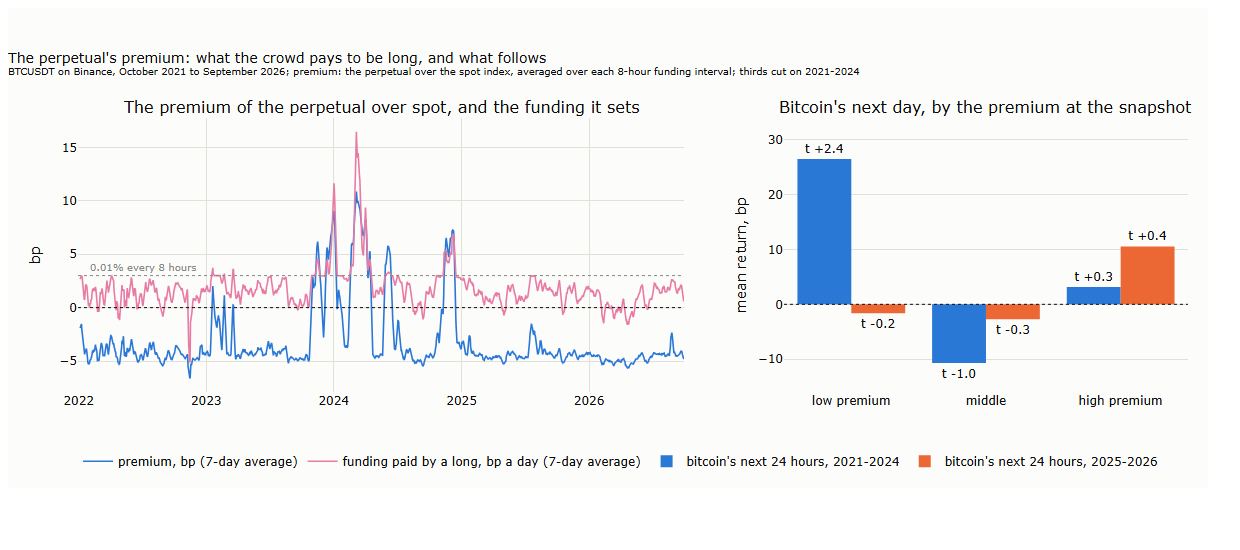
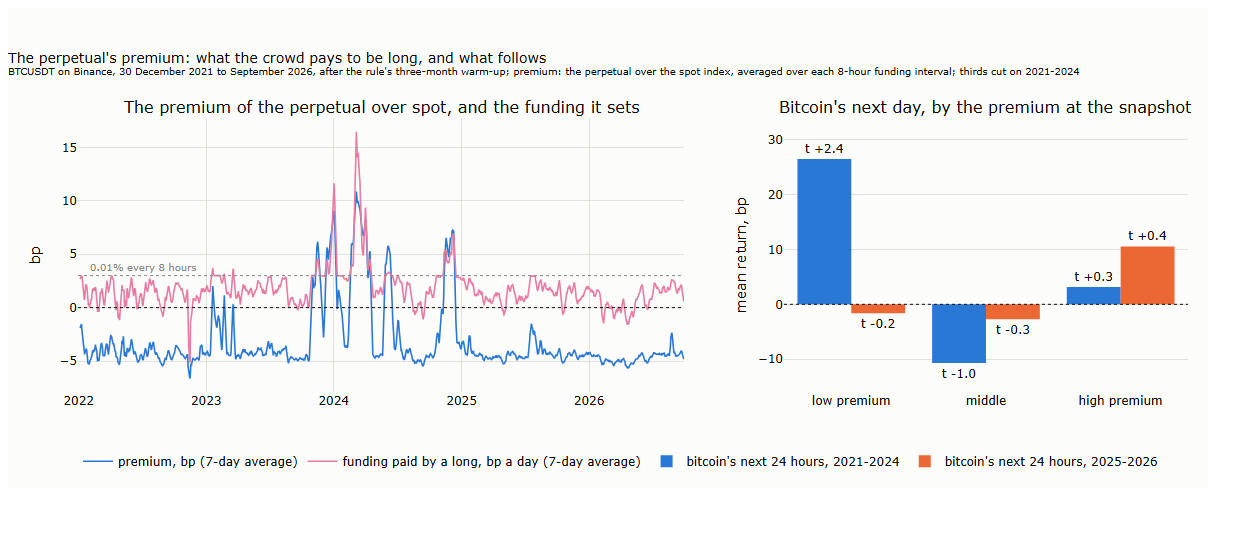
Lecture 16: captions with axes, text aligned with figures, two figures redrawn (#284)
- Axes line for 10 figures; full captions for 16_03 and 16_04 (none before).
- Text aligned with figures: night dollar bars "one an hour from midnight to
  03:00" (16_01); daily candles lose "about a quarter ... in 2021-2024 and more
  than half in 2025-2026" (16_04); costs of 16_03 are "trading costs, the fee and
  the spread"; "mostly a worse one" for B (16_05).
- 16_04 caption: separate run, hourly values up to 0.05 below 16_03.
- 16_08: log-axis ticks labelled 0.1 to 50; 16_09: subtitle gives the period
  plotted (30 December 2021 on, after the rule's warm-up). Same cached results.

Changed region(s): [[0.0919, 0.1236, 0.8887, 0.1545]]

diff --git a/lectures/16-trend-on-the-tape/scripts/l16_s6.py b/lectures/16-trend-on-the-tape/scripts/l16_s6.py
@@ -84,7 +84,7 @@ for k, (smp, col) in enumerate((("2021-2024", SERIES[0]), ("2025-2026", SERIES[1
                 marker=dict(color=col, line=dict(width=0)), text=[f"t {b[t]['btc_24h'][1]:+.1f}" for t in ("low", "middle", "high")], textposition="outside", row=1, col=2)
 fig.add_hline(y=0, line=dict(color=INK, dash="dot", width=1), row=1, col=2)
 fig.update_yaxes(title_text="bp", row=1, col=1); fig.update_yaxes(title_text="mean return, bp", range=[-16, 34], row=1, col=2)
-fig.update_layout(barmode="group", title="The perpetual's premium: what the crowd pays to be long, and what follows<br><sup>BTCUSDT on Binance, October 2021 to September 2026; "
+fig.update_layout(barmode="group", title="The perpetual's premium: what the crowd pays to be long, and what follows<br><sup>BTCUSDT on Binance, 30 December 2021 to September 2026, after the rule's three-month warm-up; "
                         "premium: the perpetual over the spot index, averaged over each 8-hour funding interval; thirds cut on 2021-2024</sup>",
                   height=480, width=1200, margin=dict(t=110, l=70), legend=dict(orientation="h", y=-0.2, x=0))
 save_figure(fig, PREFIX + "16_09_premium", FIG)

diff --git a/lectures/16-trend-on-the-tape/scripts/l16_s5.py b/lectures/16-trend-on-the-tape/scripts/l16_s5.py
@@ -42,7 +42,7 @@ for c, (smp, key) in enumerate((("2021-2024", "sharpe"), ("2025-2026", "sharpe")
     fig.add_shape(type="rect", xref=("x" if c == 1 else f"x{c}"), yref=("y domain" if c == 1 else f"y{c} domain"), x0=1.5, x1=4.5, y0=0, y1=1, fillcolor="rgba(27,175,122,0.12)",
                   line_width=0, layer="below")
     if key == "sharpe": fig.add_hline(y=0, line=dict(color=INK, dash="dot", width=1), row=1, col=c)
-fig.update_yaxes(type="log", title_text="% a year (log scale)", row=1, col=3)
+fig.update_yaxes(type="log", title_text="% a year (log scale)", tickvals=[0.1, 0.2, 0.5, 1, 2, 5, 10, 20, 50], ticktext=["0.1", "0.2", "0.5", "1", "2", "5", "10", "20", "50"], row=1, col=3)
 fig.update_layout(title="A patient entry saves most where the rule trades most: at the fast speeds<br><sup>The rule of §2 with plain sizing and funding; the patient "
                         "entry's saving of 1.96 bp per unit traded is Lecture 15's measurement; shaded: the plateau; right of each panel: the blend</sup>",
                   height=480, width=1200, margin=dict(t=110, l=60), legend=dict(orientation="h", y=-0.3, x=0))

diff --git a/lectures/16-trend-on-the-tape/lecture.md b/lectures/16-trend-on-the-tape/lecture.md
@@ -41,14 +41,14 @@ The decision clock stays on the calendar throughout. Funding is paid every eight
 **How the clocks communicate.** The clocks share one thing: time. Every trade on the tape carries an exchange timestamp to the millisecond, so every dollar bar carries one too, the moment its last trade happened. On one ordinary day, the two clocks look like this:
 
 ![Three clocks on one day: hourly closes and dollar-bar ends on 12 March 2024, and the age of the latest finished dollar bar at each hourly close](figures/16_01_three_clocks.png)
-<sub><b>How to read the figure.</b> <b>Black line:</b> the price, from one-minute closes. <b>Blue dashes along the top of each panel:</b> each marks the moment a dollar bar finished, when another fixed amount of dollars, about a 48th of a typical day's trading, had changed hands (the information clock). <b>Columns:</b> how many dollar bars finished in each hour; the dotted line is an average day's two an hour. <b>Orange lines (lower panels):</b> the hourly closes, at which the rule decides (the decision clock). <b>Shaded bands (lower panels):</b> from the last dollar bar finished before an hourly close to that close; the width written above each is how old the newest dollar-bar information is when the rule decides.</sub>
+<sub><b>How to read the figure.</b> <b>Axes.</b> Top: price (y) over the day, UTC (x). Middle: dollar bars finished in each hour (y). Bottom: price (y) over four hours (x), left the night, right the afternoon. <b>Black line:</b> the price, from one-minute closes. <b>Blue dashes along the top of each panel:</b> each marks the moment a dollar bar finished, when another fixed amount of dollars, about a 48th of a typical day's trading, had changed hands (the information clock). <b>Columns:</b> how many dollar bars finished in each hour; the dotted line is an average day's two an hour. <b>Orange lines (lower panels):</b> the hourly closes, at which the rule decides (the decision clock). <b>Shaded bands (lower panels):</b> from the last dollar bar finished before an hourly close to that close; the width written above each is how old the newest dollar-bar information is when the rule decides.</sub>
 
-Each dash marks the moment a dollar bar finished, and the columns count them hour by hour. Dollar bars are sparse at night, one an hour or fewer, and bunch when the market is busy: on this day 86 of them, against 48 on an average day, 15 in the single hour of the afternoon sell-off. The hourly closes do not move. In the lower panels, the shaded band runs from the last finished dollar bar to each hourly close: it is how old the information is that the rule can read, an hour at night, a few minutes in the sell-off.
+Each dash marks the moment a dollar bar finished, and the columns count them hour by hour. Dollar bars are sparse at night, one an hour from midnight to 03:00, and bunch when the market is busy: on this day 86 of them, against 48 on an average day, 15 in the single hour of the afternoon sell-off. The hourly closes do not move. In the lower panels, the shaded band runs from the last finished dollar bar to each hourly close: it is how old the information is that the rule can read, an hour at night, a few minutes in the sell-off.
 
 A value computed on dollar bars, such as a moving average or a volatility, is therefore a staircase in clock time: it steps when a bar finishes and stays flat until the next one. An hourly rule reads that staircase at each of its closes:
 
 ![How an hourly rule reads a dollar-bar value: the trend measure on dollar bars as a staircase, read at each hourly close](figures/16_02_reading_another_clock.png)
-<sub><b>How to read the figure.</b> <b>Blue staircase:</b> the trend measure computed on dollar bars (fast span 48 bars, about a day); above 0 the price has been rising. <b>Blue dashes:</b> a dollar bar finishes and the value steps; between dashes it stays flat. <b>Orange lines:</b> the hourly closes. <b>Orange diamonds:</b> the value the rule reads at each close, the height of the step at that moment. <b>Grey text at the top:</b> how many dollar bars finished during each hour.</sub>
+<sub><b>How to read the figure.</b> <b>Axes.</b> Time, UTC (x); trend measure in units of its typical size (y). Left: the night; right: the afternoon. <b>Blue staircase:</b> the trend measure computed on dollar bars (fast span 48 bars, about a day); above 0 the price has been rising. <b>Blue dashes:</b> a dollar bar finishes and the value steps; between dashes it stays flat. <b>Orange lines:</b> the hourly closes. <b>Orange diamonds:</b> the value the rule reads at each close, the height of the step at that moment. <b>Grey text at the top:</b> how many dollar bars finished during each hour.</sub>
 
 At 17:00 the rule reads the value of the bar that ended at 16:48:42, eleven minutes earlier; at 03:00 it reads a bar that is an hour old, because nothing worth a bar happened during the night. Three rules make this exact:
 
@@ -67,7 +67,7 @@ There is a second way to bring dollar bars into an hourly rule: to summarise the
 **What sets funding: the premium index.** Binance publishes the premium index, the perpetual against the spot index, in candles aligned with the funding intervals: 8-hour candles open at exactly 00:00, 08:00 and 16:00, and each of the 5,470 intervals from October 2021 to September 2026 matches a settlement. Rebuilt from the hourly premium by the formula above, funding comes out with a correlation of 0.90 and a median gap of 0.15 bp to the rates actually paid; the rest comes from Binance averaging the premium every five seconds, not every hour.
 
 ![The premium of the perpetual over spot and the funding it sets, 2021-2026, and bitcoin's next 24 hours by the premium at each snapshot](figures/16_09_premium.png)
-<sub><b>How to read the figure.</b> <b>Left, blue:</b> the premium of the perpetual over the spot index, averaged over each 8-hour funding interval, then over 7 days, in bp. <b>Left, pink:</b> the funding paid by a long, bp per day, 7-day average; the dotted line is the usual 0.01% every 8 hours. <b>Right:</b> bitcoin's mean return over the 24 hours after each snapshot, by the third of the premium at that snapshot (thirds cut on 2021–2024), with the t-statistic, days as clusters.</sub>
+<sub><b>How to read the figure.</b> <b>Axes.</b> Left: date (x); premium and funding, bp (y). Right: third of the premium (x); mean return over the next 24 hours, bp (y). <b>Left, blue:</b> the premium of the perpetual over the spot index, averaged over each 8-hour funding interval, then over 7 days, in bp. <b>Left, pink:</b> the funding paid by a long, bp per day, 7-day average; the dotted line is the usual 0.01% every 8 hours. <b>Right:</b> bitcoin's mean return over the 24 hours after each snapshot, by the third of the premium at that snapshot (thirds cut on 2021–2024), with the t-statistic, days as clusters.</sub>
 
 The premium sits slightly below zero most of the time, about −4 bp, and funding near its usual 0.01% per interval; both jump together when the crowd wants to be long, as in the rallies of early and late 2024, when a long paid up to about 16 bp a day. Funding is highest exactly when the market rises and the rule is long.
 
@@ -113,16 +113,18 @@ Without a cap, large signals give large positions, and the rule's realised volat
 **Which speeds?** Part II found a plateau of fast spans from about 16 to 128 days on futures, and found that faster rules failed. Bitcoin is a different market, so the speed is chosen again, on 2021–2024 only: the same rule, fast spans from 3 hours to 3 weeks, each about 1.6 times the last, so that the curve is spaced evenly in what matters: 1 to 2 hours doubles the speed, 13 to 14 days hardly changes it.
 
 ![The Sharpe ratio after all costs by speed, 2021-2024 and 2025-2026, and what trading costs a year](figures/16_03_speed_curve.png)
+<sub><b>How to read the figure.</b> <b>Axes.</b> Speed, the look-back of the fast average, from 3 hours to 21 days (x). Left: Sharpe ratio (y). Right: trading costs, % of capital a year (y). The rule of §2 on hourly candles, run at one speed at a time, with market orders, the spread and funding at every settlement. <b>Left, grey dotted:</b> 2021–2024 before costs. <b>Blue:</b> 2021–2024 after all costs, the period on which the speeds are chosen. <b>Orange:</b> 2025–2026 after all costs, which played no part in any choice. <b>Right, pink bars:</b> fees and spread paid at each speed, with the value written above each bar. Shaded: the plateau, fast spans of one to three days; each speed is about 1.6 times the last.</sub>
 
-The curve has a plateau, and it lies far faster than on futures: fast spans of **one to three days**, with a Sharpe ratio after all costs of 1.0 to 1.2 in 2021–2024 and about 0.5 in 2025–2026, which played no part in the choice. Faster than half a day, costs eat the rule: at a fast span of three hours it trades its capital about 580 times a year and pays 29% of it in fees. Slower than a week, it fades, and at three weeks it loses money in 2025–2026. The gap between the curve before and after costs shows where costs matter: at the fast end. On this market and sample, bitcoin's tradable trends last days, not months; whether that holds on other cryptocurrencies, or in other years, is an open question.
+The curve has a plateau, and it lies far faster than on futures: fast spans of **one to three days**, with a Sharpe ratio after all costs of 1.0 to 1.2 in 2021–2024 and about 0.5 in 2025–2026, which played no part in the choice. Faster than half a day, costs eat the rule: at a fast span of three hours it trades its capital about 580 times a year and pays 29% of it in trading costs, the fee and the spread. Slower than a week, it fades, and at three weeks it loses money in 2025–2026. The gap between the curve before and after costs shows where costs matter: at the fast end. On this market and sample, bitcoin's tradable trends last days, not months; whether that holds on other cryptocurrencies, or in other years, is an open question.
 
 **How often to look?** The speed is how much history the rule weighs; the candle is how often it looks. A fast span of one day is about 24 hourly candles, or 288 five-minute candles, or a single daily one. The same speeds, measured in hours of history, on candles from five minutes to a day:
 
 ![The Sharpe ratio after all costs on candles of five minutes to one day, for speeds of one, two and four days](figures/16_04_candle_size.png)
+<sub><b>How to read the figure.</b> <b>Axes.</b> Candle length, how often the rule looks, from 5 minutes to 1 day (x); Sharpe ratio after all costs (y). Left, 2021–2024; right, 2025–2026. Each line is one speed, measured in hours of history so that it is the same on every candle: <b>blue</b> one day, <b>orange</b> two days, <b>green</b> four days. Market orders and funding throughout; the candle axis is in steps, not to scale in time, and the one-day speed has no point on daily candles. Computed in a separate run of the same rule (l16_trend_bars.py), so its values on hourly candles lie up to 0.05 below those of Figure 16_03; the comparison across candles is within this figure.</sub>
 
-From five minutes to four hours, the candle hardly matters: in 2021–2024 the Sharpe ratios lie within about 0.15 of each other at every speed. In 2025–2026 finer candles do a little better, by amounts that two years of data cannot tell from chance. Once a day is too seldom: a rule that sees only the daily close reacts a day late to trends that last a few days, and loses a third of its Sharpe ratio or more. Looking once an hour is therefore enough, and simpler to run than looking every five minutes.
+From five minutes to four hours, the candle hardly matters: in 2021–2024 the Sharpe ratios lie within about 0.15 of each other at every speed. In 2025–2026 finer candles do a little better, by amounts that two years of data cannot tell from chance. Once a day is too seldom: a rule that sees only the daily close reacts a day late to trends that last a few days, and loses about a quarter of its Sharpe ratio in 2021–2024 and more than half in 2025–2026. Looking once an hour is therefore enough, and simpler to run than looking every five minutes.
 
-**The rule for the rest of the lecture.** Hourly candles; the three speeds of the plateau, fast spans of 1, 2 and 3 days, blended with equal weights, following the rule of Part II: drop the speeds that do not work and keep all those that do, rather than the single best. The blend has a Sharpe ratio after all costs of 1.14 in 2021–2024 and 0.52 in 2025–2026; it pays 2.0% of its capital a year in fees and 1.4% in funding, and turns its capital over about 40 times a year. Every section that follows changes one thing in this rule, and measures what it adds.
+**The rule for the rest of the lecture.** Hourly candles; the three speeds of the plateau, fast spans of 1, 2 and 3 days, blended with equal weights, following the rule of Part II: drop the speeds that do not work and keep all those that do, rather than the single best. The blend has a Sharpe ratio after all costs of 1.14 in 2021–2024 and 0.52 in 2025–2026; it pays 2.0% of its capital a year in trading costs and 1.4% in funding, and turns its capital over about 40 times a year. Every section that follows changes one thing in this rule, and measures what it adds.
 
 ## 3. The information clock
 
@@ -137,11 +139,11 @@ Section 1 showed how an hourly rule can read a value computed on dollar bars. Th
 The distinction between B and C has a name in the literature on unevenly spaced data: an average whose weights depend on the number of samples changes when the sampling changes, one whose weights depend on elapsed time does not (Zumbach and Müller, 2001). C is the second kind.
 
 ![Sharpe ratio after all costs by speed, for the hourly rule reading its trend from hourly closes, from dollar bars with an average per bar, and from dollar bars with an average fading by time](figures/16_05_information_clock.png)
-<sub><b>How to read the figure.</b> Each line is one version of the rule, by speed; the large markers on the right are the rule of §2, the three plateau speeds blended. <b>Blue (A):</b> the trend read from hourly closes. <b>Pink (B):</b> read from dollar bars, the average counted in bars. <b>Green (C):</b> read from dollar bars, the average fading with time. The shaded band is the plateau of §2. Left, 2021–2024; right, 2025–2026.</sub>
+<sub><b>How to read the figure.</b> <b>Axes.</b> Speed, the look-back of the fast average (x); Sharpe ratio after all costs (y). Each line is one version of the rule, by speed; the large markers on the right are the rule of §2, the three plateau speeds blended. <b>Blue (A):</b> the trend read from hourly closes. <b>Pink (B):</b> read from dollar bars, the average counted in bars. <b>Green (C):</b> read from dollar bars, the average fading with time. The shaded band is the plateau of §2. Left, 2021–2024; right, 2025–2026.</sub>
 
 **C is A.** Dollar-bar prices averaged by elapsed time give almost the same signal as hourly closes (correlation 0.99) and the same Sharpe ratio: 1.13 against 1.14 in 2021–2024, 0.51 against 0.52 in 2025–2026, for the blend. Sampling the price when dollar bars finish adds no information that hourly closes lack. It does change one thing: the signal is updated less often in quiet hours, so the rule trades a little less, and its costs fall from 2.0% to 1.4% of capital a year.
 
-**B is worse where the rule earns.** An average counted in dollar bars gives a different signal (correlation 0.84 to 0.98 with A), and on the plateau a worse one: for the blend, a Sharpe ratio of 0.99 against 1.14 in 2021–2024 and 0.41 against 0.52 in 2025–2026; at a speed of half a day, 0.37 against 0.96. For slow rules, off the plateau, B does slightly better in both periods (at three weeks, 0.78 against 0.65 and −0.01 against −0.14), but there the rule earns little anyway.
+**B is worse where the rule earns.** An average counted in dollar bars gives a different signal (correlation 0.84 to 0.98 with A), and on the plateau mostly a worse one: for the blend, a Sharpe ratio of 0.99 against 1.14 in 2021–2024 and 0.41 against 0.52 in 2025–2026; at a speed of half a day, 0.37 against 0.96. For slow rules, off the plateau, B does slightly better in both periods (at three weeks, 0.78 against 0.65 and −0.01 against −0.14), but there the rule earns little anyway.
 
 **Why.** An average counted in bars runs with the market's activity. In a burst, such as the afternoon of figure 16_01 with fifteen bars in an hour, it moves fifteen steps in an hour and follows the burst; at night it moves one step an hour, or none. Bursts of activity on BTCUSDT often reverse: flow in the direction of the trend partly comes back, and a sweep with the trend is taken back within the hour (Lecture 15, §2 and §3). A fast rule that follows bursts therefore buys late and sells late. A slow rule weighs so many bars that a burst moves it little, and freezing at night costs it nothing; that is why B stops hurting as the rule slows down.
 
@@ -168,7 +170,7 @@ The rule sizes each position by the market's volatility over the past 36 days of
 **Two parts of risk.** An hour's risk, its realised variance from one-minute returns, is the product of two quantities: how much is traded in the hour, its **activity** (dollars traded, over a typical hour), and how far each dollar traded moves the price, its **risk per dollar**. The first is the number of dollar bars the hour will contain; the second is the risk each of them carries.
 
 ![The two parts of an hour's risk: activity and risk per dollar over one week, and how the hour-to-hour variation of risk splits between them](figures/16_06_two_parts_of_risk.png)
-<sub><b>How to read the figure.</b> <b>Left:</b> one week, 11 to 17 March 2024, hour by hour, on a log scale where 1 is the usual level. <b>Blue:</b> activity, the dollars traded in the hour over a typical hour. <b>Pink:</b> risk per dollar, the hour's realised variance over its activity, relative to its usual level (the 28-day median). <b>Right:</b> over five years, the share of the hour-to-hour variation of log realised variance that comes from each part, and from the two moving together.</sub>
+<sub><b>How to read the figure.</b> <b>Axes.</b> Left: hour (x); level over its usual level (y, log). Right: part of risk (x); share of the variation of log risk, % (y). <b>Left:</b> one week, 11 to 17 March 2024, hour by hour, on a log scale where 1 is the usual level. <b>Blue:</b> activity, the dollars traded in the hour over a typical hour. <b>Pink:</b> risk per dollar, the hour's realised variance over its activity, relative to its usual level (the 28-day median). <b>Right:</b> over five years, the share of the hour-to-hour variation of log realised variance that comes from each part, and from the two moving together.</sub>
 
 The two parts move separately, and each carries a large share of the variation: activity 42%, risk per dollar 38%, and the two together another 20%. Both can be forecast from what is known at the start of the hour, with the same kind of model, a regression on the last hour, the last day and the last week (Corsi, 2009), plus the same hour of the week and the scheduled releases:
 
@@ -194,7 +196,7 @@ Forecasting the two parts separately gives the same accuracy as forecasting risk
 | **Forecast over the holding period** | The same model, forecasting as far ahead as the rule typically holds: one day for the one-day speed, eight days for the eight-day speed |
 
 ![Sharpe ratio in both periods and the worst day, by speed, for four ways of measuring the risk the rule sizes by](figures/16_07_sizing.png)
-<sub><b>How to read the figure.</b> Each line is one way of sizing, by speed; the large markers on the right of each panel are the rule's blend of the three plateau speeds. <b>Left and middle:</b> the Sharpe ratio after all costs, 2021–2024 and 2025–2026. <b>Right:</b> the worst day of 2021–2024, the largest loss over 24 hours, in units of the rule's typical daily move: closer to zero is milder. The shaded band is the plateau of §2.</sub>
+<sub><b>How to read the figure.</b> <b>Axes.</b> Speed (x). Left and middle: Sharpe ratio (y). Right: worst day, in typical daily moves (y). Each line is one way of sizing, by speed; the large markers on the right of each panel are the rule's blend of the three plateau speeds. <b>Left and middle:</b> the Sharpe ratio after all costs, 2021–2024 and 2025–2026. <b>Right:</b> the worst day of 2021–2024, the largest loss over 24 hours, in units of the rule's typical daily move: closer to zero is milder. The shaded band is the plateau of §2.</sub>
 
 For the rule's blend:
 
@@ -220,7 +222,7 @@ First, how good is each measure as a forecast of risk? Against the next 24 hours
 
 The forecast from one-minute data is a much better measure of the coming risk than the 36-day volatility, and smoothing it over a day gives up only part of the gain: out of sample it keeps about three quarters of the raw forecast's advantage. Then, what does each do in the rule? Three results stand out.
 
-- **The raw forecast is a trap.** It moves from hour to hour, the position follows it, and the rule pays 5.8% of its capital a year in fees instead of 2.0%. Smoothed over a day, the forecast keeps most of its information and loses the churn. A middle way, sizing by the larger of the raw and the smoothed forecast, so that the position is cut at once when risk jumps and grows back slowly when it falls, brings much of the churn back (3.4% a year in fees) and makes the worst day no milder (−6.8): smoothing is the cheaper way to use the forecast.
+- **The raw forecast is a trap.** It moves from hour to hour, the position follows it, and the rule pays 5.8% of its capital a year in trading costs instead of 2.0%. Smoothed over a day, the forecast keeps most of its information and loses the churn. A middle way, sizing by the larger of the raw and the smoothed forecast, so that the position is cut at once when risk jumps and grows back slowly when it falls, brings much of the churn back (3.4% a year in trading costs) and makes the worst day no milder (−6.8): smoothing is the cheaper way to use the forecast.
 - **A sharper forecast of risk steadies the rule.** Sized by the smoothed forecast, the rule's worst day is −6.5 typical daily moves instead of −9.5, and its risk varies less from month to month. That is what a forecast of risk is for, and it delivers it.
 - **It does not raise the return per unit of risk.** The Sharpe ratio is about the same in 2021–2024 (1.18 against 1.14) and lower in 2025–2026 (0.37 against 0.52); at every speed in 2025–2026 the plain sizing does best. Forecasting over the holding period instead of the next day helps the slow rules, for which tomorrow's risk is the wrong number, but does not close the gap. One explanation, to be tested rather than assumed: bitcoin's large trends tend to come with rising volatility, and a rule that cuts its position as soon as risk rises holds less during the moves it lives on; the slow 36-day estimate reacts later and keeps more of them.
 
@@ -243,7 +245,7 @@ The rule decides at the hourly close; nothing says it must trade at that instant
 The patient entry changes only the execution clock: the decision times, the signal, the sizing and the funding stay as they were.
 
 ![Sharpe ratio in both periods and trading costs by speed, with market orders and with the patient entry](figures/16_08_patient_entry.png)
-<sub><b>How to read the figure.</b> <b>Blue:</b> the rule of §2 with market orders at the hourly close. <b>Orange:</b> the same rule with the patient entry. <b>Left and middle:</b> the Sharpe ratio after all costs, 2021–2024 and 2025–2026. <b>Right:</b> trading costs, % of capital a year, on a log scale. Large markers on the right of each panel: the rule's blend of the plateau speeds. Shaded: the plateau.</sub>
+<sub><b>How to read the figure.</b> <b>Axes.</b> Speed (x). Left and middle: Sharpe ratio (y). Right: trading costs, % of capital a year (y, log). <b>Blue:</b> the rule of §2 with market orders at the hourly close. <b>Orange:</b> the same rule with the patient entry. <b>Left and middle:</b> the Sharpe ratio after all costs, 2021–2024 and 2025–2026. <b>Right:</b> trading costs, % of capital a year, on a log scale. Large markers on the right of each panel: the rule's blend of the plateau speeds. Shaded: the plateau.</sub>
 
 | The rule's blend | Sharpe ratio, 2021–2024 / 2025–2026 | Trading costs a year |
 |---|---|---|
@@ -282,7 +284,7 @@ Spot saves about 1.7% a year in funding, and gives back 1.6% in fees and 0.6% in
 Each section changed one thing in the rule and measured it. Put together:
 
 ![The rule built up step by step and its two alternatives: Sharpe ratio in both periods and maximum drawdown](figures/16_10_rule_built_up.png)
-<sub><b>How to read the figure.</b> Each bar is one version of the rule, after fees, spread and funding. <b>Grey:</b> the plain rule of §2, and the step tested and not taken (longs in spot, §6). <b>Blue:</b> the lecture's rule, the plain rule with the patient entry of §5. <b>Green:</b> two alternatives to it. <b>Left and middle:</b> Sharpe ratio, 2021–2024 and 2025–2026. <b>Right:</b> the largest fall from a peak, 2025–2026.</sub>
+<sub><b>How to read the figure.</b> <b>Axes.</b> One bar per version (y). Left and middle: Sharpe ratio (x). Right: maximum drawdown, % (x). Each bar is one version of the rule, after fees, spread and funding. <b>Grey:</b> the plain rule of §2, and the step tested and not taken (longs in spot, §6). <b>Blue:</b> the lecture's rule, the plain rule with the patient entry of §5. <b>Green:</b> two alternatives to it. <b>Left and middle:</b> Sharpe ratio, 2021–2024 and 2025–2026. <b>Right:</b> the largest fall from a peak, 2025–2026.</sub>
 
 | Version | Sharpe ratio, 2021–2024 / 2025–2026 | Largest fall, 2021–2024 / 2025–2026 | Worst day | Costs / funding a year |
 |---|---|---|---|---|
@@ -309,7 +311,7 @@ Of the tape's tools, one step pays on its own: the patient entry. Sizing by the 
 *Legs: % of the rule's capital, after costs and funding. Bitcoin: its change over the year.*
 
 ![Cumulative return of the lecture's rule, of its long-or-flat version and of bitcoin held long at the same volatility, 2022 to 2026](figures/16_11_equity.png)
-<sub><b>How to read the figure.</b> Cumulative return, the sum of returns as % of capital, after fees, spread and funding. <b>Blue:</b> the lecture's rule, long and short. <b>Green:</b> the same rule, long or flat. <b>Grey, dotted:</b> bitcoin held long, scaled to the rule's volatility. Shaded: 2022, the one bear market in the sample. Right of the dotted line: 2025–2026, which played no part in any choice.</sub>
+<sub><b>How to read the figure.</b> <b>Axes.</b> Date (x); cumulative return, % of capital (y). Cumulative return, the sum of returns as % of capital, after fees, spread and funding. <b>Blue:</b> the lecture's rule, long and short. <b>Green:</b> the same rule, long or flat. <b>Grey, dotted:</b> bitcoin held long, scaled to the rule's volatility. Shaded: 2022, the one bear market in the sample. Right of the dotted line: 2025–2026, which played no part in any choice.</sub>
 
 Over the five years the short leg added little on average, and long or flat has the higher Sharpe ratio in both periods: bitcoin rose, and shorts in rising or sideways years lose. But the shorts earned in the two falling years, and in 2022 they turned a loss of 10% into a gain of 6% while bitcoin lost two thirds of its value. This is the protection trend following is known for, and the capstone of Lecture 11 found the same on futures: long or flat kept the Sharpe ratio and lost most of the protection in crises. Which version to run is a view on how many falling years the future holds, a question five mostly rising years cannot settle.
 
@@ -337,7 +339,7 @@ Lecture 17 applies Part III to the second example, an intraday grid. "Grid" cove
 **How the paired grid works.**
 
 ![The classic two-sided grid: a round trip on a swing, a run that fills buy after buy, and three ways of sizing the levels](figures/16_12_grid.png)
-<sub><b>How to read the figure.</b> A schematic, not data. <b>Left:</b> blue lines are levels holding buy orders, pink lines levels holding sell orders, the dotted line the centre. On the swing, the buy at −1 fills (blue triangle) and its paired sell one step up fills (pink triangle): one step earned. On the run, buy after buy fills, and their paired sells (dashed) wait above the price: the inventory the run leaves behind. <b>Right:</b> three ways of spreading the grid's capital across its levels, each averaging 1 per level.</sub>
+<sub><b>How to read the figure.</b> <b>Axes.</b> Left: time (x); level, in steps from the centre (y). Right: size at each level, average 1 (x), by level (y). A schematic, not data. <b>Left:</b> blue lines are levels holding buy orders, pink lines levels holding sell orders, the dotted line the centre. On the swing, the buy at −1 fills (blue triangle) and its paired sell one step up fills (pink triangle): one step earned. On the run, buy after buy fills, and their paired sells (dashed) wait above the price: the inventory the run leaves behind. <b>Right:</b> three ways of spreading the grid's capital across its levels, each averaging 1 per level.</sub>
 
 | Step | What happens |
 |---|---|
